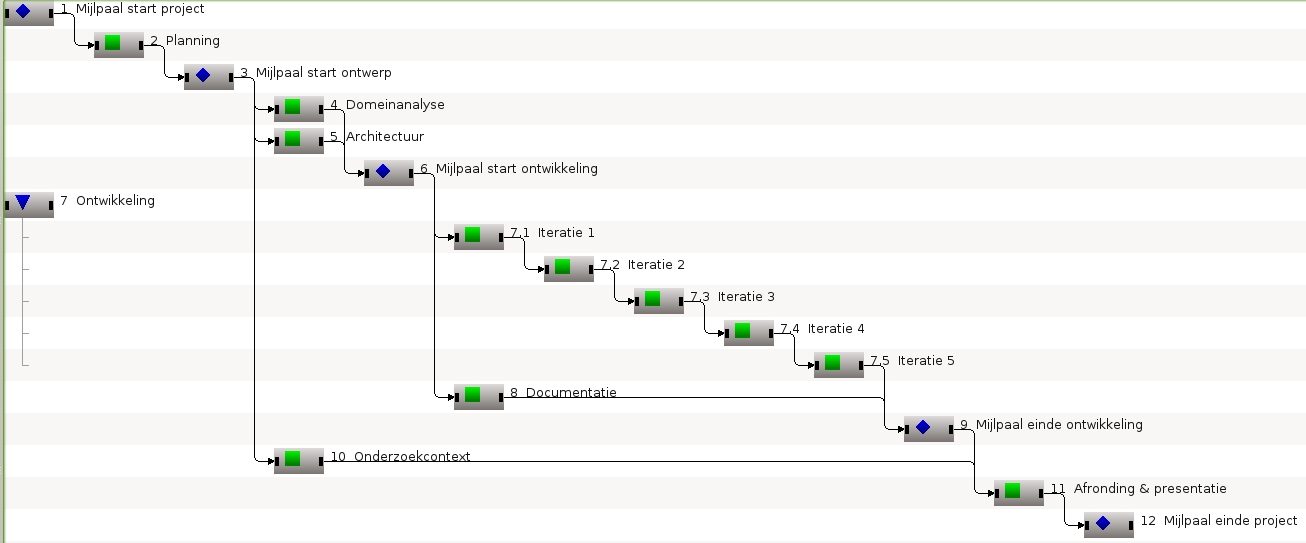
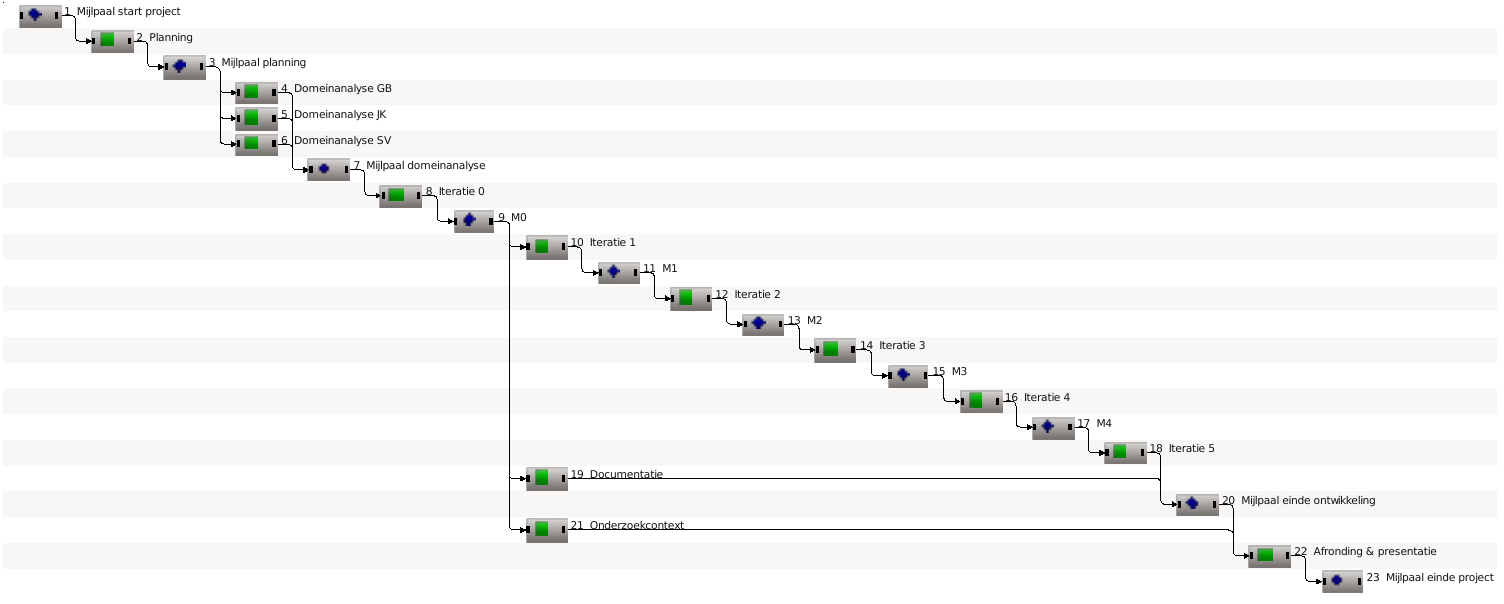
Added minutes; updated schedule

Changed region(s): [[0.0, 0.0, 1.0, 1.0]]

diff --git a/minutes/team-005.tex b/minutes/team-005.tex
@@ -1,0 +1,40 @@
+\documentclass{article}
+
+\usepackage[dutch]{babel}
+\usepackage{minutes}
+
+\title{Notulen 005 overleg team 33}
+\author{Jeroen}
+\minutesstyle{header=list, vote=list, contents=true}
+
+\begin{document}
+%\selectlanguage{dutch}
+
+\begin{Minutes}{Overleg 005 team 33}
+\participant{Stefan Versluys, Jeroen Kleijn}
+\minutesdate{1 Oktober 2014}
+\location{skype}
+
+\maketitle% This is where LaTeX makes the title
+
+\topic{Planning}
+
+
+Kort overleg over de planning gehouden, de volgende zaken zijn besproken:
+
+\begin{enumerate}
+ \item We moeten zeker een demo vragen van Bernard om zo requirements door observatie te verzamelen en liefst tijdens ons domein/architectuur onderzoek (dus blok 2)
+ \item Dat we bij blok twee (domein \& architectuur onderzoek) onze ontwikkelomgeving ingericht moeten hebben en getest, zodat we bij iteratie 1 direct met de bouw kunnen beginnen.
+ \item Dat elke iteratie iets oplevert ter evaluatie zodat we steeds feedback kunnen krijgen (dit had jij trouwens als opgenomen onder werkwijzen
+ \item Dat we in het plan de activiteiten bij de iteraties algemeen houden (we hebben nog te weinig info) - is nu 3 iteraties xmas en 2 iteraties analyse tools geworden
+ \item Voor plan de engelse tekst in het nederlands zetten
+ \item De vier blokken van activiteiten in het globaal plan hernoemen zoals in RUP, omwille van de overeenkomsten
+ \item Ik heb de algemene punten onder het plan die reeds elders in het document opgenomen zijn verwijderd (redundantie) , alleen had ik nog een risico die toch belangrijk is namelijk:
+ \begin{enumerate}
+  \item Aangezien de tool gebruikt wordt voor analyse van een chip ontwerp is het belangrijk dat analyse uitkomsten op de juiste manier zichtbaar zijn , is dit niet het geval dan bestaat de kans dat er foutieve chipontwerpen gebruikt worden voor productie.
+ \end{enumerate}        
+\end{enumerate}
+
+
+\end{Minutes}
+\end{document}

diff --git a/preparation/plan-6-scheduling.tex b/preparation/plan-6-scheduling.tex
@@ -11,36 +11,56 @@
 
   \begin{figure}
   	\centering
-  	\includegraphics[width=0.8\textwidth,natwidth=1306,natheight=543]{Gantt.png}
+  	\includegraphics[width=0.8\textwidth,natwidth=1504,natheight=604]{Gantt.png}
   	\caption{\label{fig:Gantt Chart}Scheduling.}
   \end{figure}
 
 \begin{tabular}{ll}\hline
 {\bf Fase}    & {\bf weken}\\\hline
 Planning             & 2,5 \\
-
+\hline
 Domeinanalyse        & 3 \\
-Architectuur         & 3 \\
-
+Iteratie 0           & 3 \\
+\hline
 Iteratie 1           & 3 \\
 Iteratie 2           & 3 \\
 Iteratie 3           & 3 \\
 Iteratie 4           & 3 \\
 Iteratie 5           & 3 \\
-
+\hline
 Onderzoekcontext     &	2 \\
-
+\hline
 Afronding	     & 1.5 \\
 \hline
 Totaal               & 27 \\
 \end{tabular}
 
 
-
 \begin{itemize}
  \item 27 weken * 15 uur/week = 405 uur
  \item 8 maanden, ongeveer 32 weken beschikbaar, dus 5 weken marge
 \end{itemize}
+
+
+
+\begin{tabular}{lll}\hline
+{\bf Week}    & {\bf Taak}  & {\bf Extra}\\\hline
+38-41         & Planning    \\
+42-45         & Domeinanalyse & 4 weken ingepland i.v.m. vakanties Stefan \& Jeroen \\
+46-48         & Iteratie 0    \\
+49-51         & Iteratie 1    \\
+52-1          &               & geen iteratie i.v.m. vakantieperiode, mogelijk individueel (onderzoekcontext?) \\
+2-4           & Iteratie 2    \\
+5-7           & Iteratie 3    \\
+8-10          & Iteratie 4    \\
+11-13         & Iteratie 5    \\
+14-16         &               \\
+17-18         & Onderzoekcontext \\
+19-20         & Afronding     \\
+22            & Mijlpaal einde project
+
+\end{tabular}
+
 
 
 

diff --git a/minutes/team-004.tex b/minutes/team-004.tex
@@ -1,0 +1,38 @@
+\documentclass{article}
+
+\usepackage[dutch]{babel}
+\usepackage{minutes}
+
+\title{Notulen 004 overleg team 33}
+\author{Jeroen}
+\minutesstyle{header=list, vote=list, contents=true}
+
+\begin{document}
+%\selectlanguage{dutch}
+
+\begin{Minutes}{Overleg 004 team 33}
+\participant{Guus Bonnema, Stefan Versluys, Jeroen Kleijn}
+\minutesdate{29. September 2014}
+\location{skype}
+
+\maketitle% This is where LaTeX makes the title
+
+\topic{Besluiten}
+
+\paragraph{Planning}
+\begin{itemize}
+ \item Guus verwerkt opmerkingen naar aanleiding van de mail van Freek en werkt de secties stakeholders, requirements en risico's verder uit
+ \item Stefan werkt de WBS uit en zorgt voor de indeling van het planningsdocument
+ \item Jeroen maakt een eerste tijdsplanning en werkt de sectie architectuur verder uit
+\end{itemize}
+
+\paragraph{Acties}
+\begin{itemize}
+ \item Guus stuurt een mail naar Freek om een overleg in te plannen waarin de onderwerpen voor de domeinanalyse worden vastgelegd
+ \item Jeroen stuurt een mail naar Freek en Bernard om hun beschikbaarheid tijdens het project te bepalen
+ \item Het volgende overleg is woensdag 1 oktober 2014 (19:00)
+\end{itemize}
+
+
+\end{Minutes}
+\end{document}
